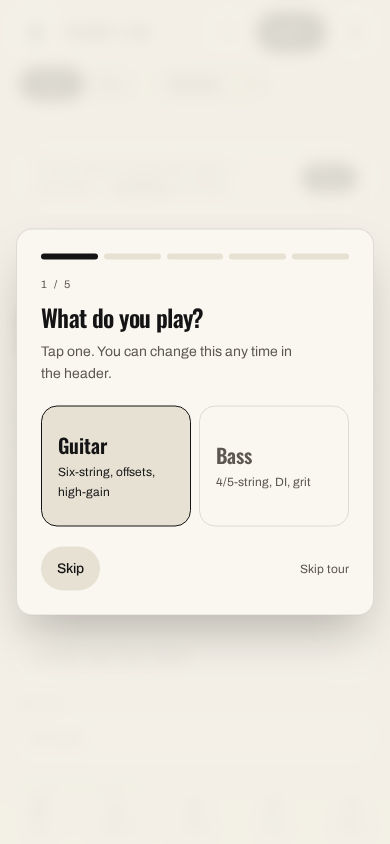
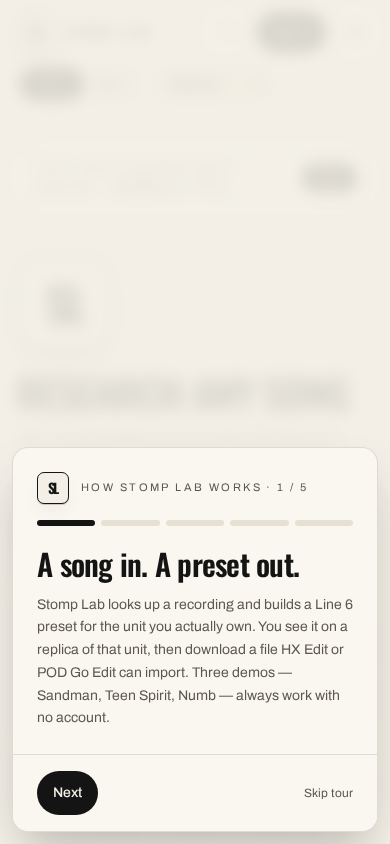
Finish the launch Lab: promo hero, cream SL sticker, visitor counts.
The Lab now opens on the promo layout — giant cream SL, Research any song,
$75/year, 50 builds, and the form right there. The sticker has an ink edge so
it reads on cream, and it is the icon on every platform.

diff --git a/src/routes/index.tsx b/src/routes/index.tsx
@@ -6,6 +6,7 @@ import { PlaybackSelect } from "@/components/layout/playback-select";
 import { RigDisclaimer } from "@/components/layout/disclaimer";
 import { FeedbackCard } from "@/components/layout/feedback-card";
 import { GeminiHint } from "@/components/layout/gemini-hint";
+import { Mark } from "@/components/layout/mark";
 import { ResearchProgress } from "@/components/layout/research-progress";
 import { SongTypeahead } from "@/components/layout/song-typeahead";
 import { UpgradeBanner } from "@/components/layout/upgrade-banner";
@@ -19,7 +20,12 @@ import { isDemoId, withStompModel } from "@/lib/preset-utils";
 import { matchFeatured, researchSongFn } from "@/lib/research";
 import { usePlan } from "@/lib/use-plan";
 import { useAppStore } from "@/store/app-store";
-import { FREE_BUILDS } from "@/lib/plan";
+import {
+  FREE_BUILDS,
+  PAID_MONTHLY_BUILDS,
+  PRICE_YEARLY_USD,
+  formatUsd,
+} from "@/lib/plan";
 
 export const Route = createFileRoute("/")({
   validateSearch: (s: Record<string, unknown>): { q?: string } => ({
@@ -151,24 +157,48 @@ function Home() {
 
   const used = plan.signedIn && !plan.paid ? Math.min(FREE_BUILDS, plan.freeUsed) : 0;
 
+  function openFirstDemo() {
+    const first = demos[0];
+    if (first) openFeatured(first.id);
+  }
+
   return (
-    <div className="space-y-16 md:space-y-24">
+    <div className="space-y-12 md:space-y-20">
       <UpgradeBanner plan={plan} pending={planPending} />
 
-      <section className="mx-auto max-w-3xl space-y-8" data-tutorial="lab">
-        <div className="space-y-5">
+      <section className="mx-auto max-w-5xl space-y-8" data-tutorial="lab">
+        <div className="flex flex-col items-start gap-6 md:flex-row md:items-center md:gap-10">
+          <Mark size="hero" />
+          <div className="min-w-0 space-y-4">
+            <h1 className="font-display text-[clamp(2.6rem,9vw,5.5rem)] font-semibold uppercase leading-[0.82] tracking-tight">
+              Research any song
+            </h1>
+            <p className="max-w-md text-base leading-relaxed text-muted-foreground md:text-lg">
+              Get a Line 6 preset you can copy onto the unit — path, knobs, snapshots, and a file
+              HX Edit or POD Go Edit will import.
+            </p>
+            <div className="flex flex-wrap items-end gap-x-6 gap-y-2">
+              <p className="font-display text-2xl font-semibold leading-none md:text-3xl">
+                {formatUsd(PRICE_YEARLY_USD)}{" "}
+                <span className="text-sm font-normal text-muted-foreground">/ year</span>
+              </p>
+              <p className="font-display text-2xl font-semibold leading-none md:text-3xl">
+                {PAID_MONTHLY_BUILDS}{" "}
+                <span className="text-sm font-normal text-muted-foreground">
+                  custom builds a month
+                </span>
+              </p>
+              <p className="pb-0.5 text-sm text-muted-foreground">HX Stomp · XL · Helix · POD Go</p>
+            </div>
+          </div>
+        </div>
+
+        <div className="space-y-3">
           <p className="text-[11px] font-medium uppercase tracking-[0.32em] text-muted-foreground">
-            Line 6 laboratory
-          </p>
-          <h1 className="font-display text-[clamp(3.25rem,14vw,7.5rem)] font-semibold uppercase leading-[0.82] tracking-tight">
-            Stomp Lab
-          </h1>
-          <p className="max-w-md text-lg leading-relaxed text-muted-foreground">
-            Type a song. Get a preset that sounds like the record — path, knobs, snapshots, and a file
-            HX Edit or POD Go Edit will import.
+            Your unit: {DEVICE_MAP[stompModel]?.name ?? "HX Stomp"}
           </p>
           <p className="text-sm text-muted-foreground">
-            Three demos always work. No account. Your unit: {DEVICE_MAP[stompModel]?.name ?? "HX Stomp"}.
+            Three demos always work. No account. Type a song, then build the preset.
           </p>
           <RigDisclaimer />
         </div>
@@ -202,7 +232,12 @@ function Home() {
           </div>
         ) : null}
 
-        <form onSubmit={(e) => void onResearch(e)} className="space-y-4" data-tutorial="lab-form">
+        <form
+          id="lab-form"
+          onSubmit={(e) => void onResearch(e)}
+          className="space-y-4"
+          data-tutorial="lab-form"
+        >
           <SongTypeahead
             song={song}
             artist={artist}
@@ -216,10 +251,15 @@ function Home() {
             }}
           />
           <PlaybackSelect value={playbackTarget} onChange={setPlaybackTarget} />
-          <Button type="submit" size="lg" disabled={busy || planPending} className="w-full sm:w-auto sm:px-8">
-            {busy ? <Loader2 className="size-4 animate-spin" /> : null}
-            {busy ? "Researching" : "Build this preset"}
-          </Button>
+          <div className="flex flex-wrap gap-3">
+            <Button type="submit" size="lg" disabled={busy || planPending} className="w-full sm:w-auto sm:px-8">
+              {busy ? <Loader2 className="size-4 animate-spin" /> : null}
+              {busy ? "Researching" : "Build this preset"}
+            </Button>
+            <Button type="button" size="lg" variant="outline" onClick={openFirstDemo} className="w-full sm:w-auto">
+              See a demo
+            </Button>
+          </div>
           {busy ? <ResearchProgress pct={progress} /> : null}
           <p className="text-xs text-muted-foreground">
             Using {instrument} · {DEVICE_MAP[stompModel]?.name ?? "HX Stomp"}. Change both in the header.
@@ -233,7 +273,7 @@ function Home() {
         </form>
       </section>
 
-      <section className="space-y-6">
+      <section className="space-y-6" id="demos">
         <div className="flex items-end justify-between gap-4">
           <div className="space-y-1">
             <p className="text-[11px] uppercase tracking-[0.22em] text-muted-foreground">Always free</p>

diff --git a/src/routes/upgrade.tsx b/src/routes/upgrade.tsx
@@ -3,7 +3,7 @@ import { Check, Loader2 } from "lucide-react";
 import { useEffect, useState } from "react";
 import { Button } from "@/components/ui/button";
 import { LegalFooter } from "@/components/layout/legal-footer";
-import { BrandLockup } from "@/components/layout/mark";
+import { Mark } from "@/components/layout/mark";
 import { RigDisclaimer } from "@/components/layout/disclaimer";
 import { useCurrentUserState } from "@/lib/auth/use-current-user";
 import { confirmCheckout, startCheckout } from "@/lib/billing";
@@ -168,18 +168,24 @@ function UpgradePage() {
   return (
     <main className="min-h-dvh bg-background px-4 py-10 text-foreground">
       <div className="mx-auto w-full max-w-3xl space-y-8">
-        <div className="space-y-3">
-          <Link to="/" className="inline-flex items-center text-muted-foreground">
-            <BrandLockup />
-          </Link>
-          <h1 className="font-display text-6xl font-semibold uppercase leading-[0.86] tracking-tight md:text-7xl">
-            Subscribe
-          </h1>
-          <p className="max-w-xl text-lg leading-relaxed text-muted-foreground">
-            Type any song after the three free builds are gone. {FREE_BUILDS} custom songs after sign-in.
-            Featured demos stay free. Monthly or yearly — same {PAID_MONTHLY_BUILDS} builds a month either way.
-          </p>
-          <RigDisclaimer />
+        <div className="flex flex-col items-start gap-6 sm:flex-row sm:items-center sm:gap-8">
+          <Mark size="xl" />
+          <div className="space-y-3">
+            <Link to="/" className="inline-flex font-display text-sm font-semibold uppercase tracking-[0.2em] text-muted-foreground">
+              Stomp Lab
+            </Link>
+            <p className="text-[11px] font-medium uppercase tracking-[0.28em] text-muted-foreground">
+              Research any song
+            </p>
+            <h1 className="font-display text-6xl font-semibold uppercase leading-[0.86] tracking-tight md:text-7xl">
+              Subscribe
+            </h1>
+            <p className="max-w-xl text-lg leading-relaxed text-muted-foreground">
+              Type any song after the three free builds are gone. {FREE_BUILDS} custom songs after sign-in.
+              Featured demos stay free. Monthly or yearly — same {PAID_MONTHLY_BUILDS} builds a month either way.
+            </p>
+            <RigDisclaimer />
+          </div>
         </div>
 
         <div className="grid gap-4 md:grid-cols-2">

diff --git a/src/routes/login.tsx b/src/routes/login.tsx
@@ -3,7 +3,7 @@ import { useEffect, useState } from "react";
 import { Button } from "@/components/ui/button";
 import { Input } from "@/components/ui/input";
 import { Label } from "@/components/ui/label";
-import { BrandLockup } from "@/components/layout/mark";
+import { Mark } from "@/components/layout/mark";
 import { authClient, authEnabled } from "@/lib/auth/client";
 import { useCurrentUserState } from "@/lib/auth/use-current-user";
 import { parseCheckoutId, parseNext } from "@/lib/next-path";
@@ -169,18 +169,21 @@ function LoginPage() {
   return (
     <main className="grid min-h-dvh place-items-center bg-background px-4 py-10 text-foreground">
       <div className="w-full max-w-sm space-y-6">
-        <div className="space-y-2">
-          <a href="/" className="inline-flex items-center text-muted-foreground">
-            <BrandLockup />
+        <div className="space-y-4">
+          <a href="/" className="inline-flex items-center gap-3" aria-label="Stomp Lab">
+            <Mark size="xl" />
+            <span className="font-display text-base font-semibold uppercase tracking-[0.2em]">Stomp Lab</span>
           </a>
-          <h1 className="font-display text-5xl font-semibold uppercase leading-[0.88] tracking-tight">
-            {mode === "in" ? "Sign in" : "Create account"}
-          </h1>
-          <p className="text-sm leading-relaxed text-muted-foreground">
-            Email and a password. That's it — no Google, no X. Unlock and admin stick to this exact
-            email. Always sign in with the same address — creating a second account starts over.
-            Use stomplab.app, not www.
-          </p>
+          <div className="space-y-2">
+            <h1 className="font-display text-5xl font-semibold uppercase leading-[0.88] tracking-tight">
+              {mode === "in" ? "Sign in" : "Create account"}
+            </h1>
+            <p className="text-sm leading-relaxed text-muted-foreground">
+              Email and a password. That's it — no Google, no X. Unlock and admin stick to this exact
+              email. Always sign in with the same address — creating a second account starts over.
+              Use stomplab.app, not www.
+            </p>
+          </div>
         </div>
 
         {!authEnabled ? (

diff --git a/src/components/layout/mark.tsx b/src/components/layout/mark.tsx
@@ -1,14 +1,27 @@
 import { cn } from "@/lib/utils";
 
-export function Mark({ className, size = "md" }: { className?: string; size?: "sm" | "md" | "lg" }) {
+const SIZE = {
+  sm: "size-8 text-sm",
+  md: "size-10 text-lg",
+  lg: "size-12 text-xl",
+  xl: "size-24 text-5xl sm:size-28 sm:text-6xl",
+  hero: "size-24 text-5xl sm:size-32 sm:text-6xl md:size-44 md:text-7xl",
+} as const;
+
+/** Cream SL sticker — the same mark as the physical sticker and the app icon. */
+export function Mark({
+  className,
+  size = "md",
+}: {
+  className?: string;
+  size?: keyof typeof SIZE;
+}) {
   return (
     <span
       aria-hidden
       className={cn(
-        "grid shrink-0 place-items-center rounded-md border border-border bg-mark font-display font-bold uppercase tracking-[-0.06em] text-mark-foreground",
-        size === "sm" && "size-8 text-sm",
-        size === "md" && "size-10 text-lg",
-        size === "lg" && "size-12 text-xl",
+        "sl-sticker grid shrink-0 place-items-center font-display font-bold uppercase text-mark-foreground",
+        SIZE[size],
         className,
       )}
     >

diff --git a/src/styles.css b/src/styles.css
@@ -32,6 +32,9 @@
   --radius-xl: 24px;
 
   --shadow-border: 0 0 0 1px color-mix(in oklab, #141414 8%, transparent);
+  --shadow-sticker:
+    0 1px 0 color-mix(in oklab, #141414 18%, transparent),
+    0 10px 24px -12px color-mix(in oklab, #141414 48%, transparent);
 
   --ease-out: cubic-bezier(0.23, 1, 0.32, 1);
   --motion-quick: 150ms;
@@ -92,6 +95,17 @@ html.dark {
   a {
     color: inherit;
   }
+}
+
+/* Vinyl SL sticker — cream field, ink letters, reads on cream and on dark. */
+.sl-sticker {
+  background: var(--color-mark);
+  color: var(--color-mark-foreground);
+  border: 1.5px solid var(--color-mark-foreground);
+  border-radius: 22%;
+  box-shadow: var(--shadow-sticker);
+  letter-spacing: -0.08em;
+  line-height: 1;
 }
 
 .hx-chassis {

diff --git a/src/routes/admin.tsx b/src/routes/admin.tsx
@@ -170,7 +170,12 @@ function AdminPage() {
         <Stat
           label="Visitors (7d)"
           value={String(dash?.visits?.d7 ?? "—")}
-          hint={`${dash?.visits?.d30 ?? 0} in the last 30 days · ${dash?.visits?.unique_all ?? 0} all-time`}
+          hint={`${dash?.visits?.d30 ?? 0} in the last 30 days`}
+        />
+        <Stat
+          label="Visitors (all-time)"
+          value={String(dash?.visits?.unique_all ?? "—")}
+          hint={`${dash?.visits?.hits ?? 0} total pings · one per browser per day`}
         />
         <Stat label="Signed up" value={String(dash?.userCount ?? "—")} hint="Every account except yours" />
         <Stat

diff --git a/src/components/layout/onboarding.tsx b/src/components/layout/onboarding.tsx
@@ -52,7 +52,8 @@ export function Onboarding({ onFinished }: { onFinished?: () => void }) {
   useLayoutEffect(() => {
     try {
       if (
-        (window.localStorage.getItem("stomplab.tutorial.v8") ||
+        (window.localStorage.getItem("stomplab.tutorial.v9") ||
+          window.localStorage.getItem("stomplab.tutorial.v8") ||
           window.localStorage.getItem("stomplab.tutorial.v7") ||
           window.localStorage.getItem("stomplab.tutorial.v6")) &&
         !window.localStorage.getItem(ONBOARD_KEY)

diff --git a/src/components/layout/tutorial.tsx b/src/components/layout/tutorial.tsx
@@ -14,7 +14,7 @@ import { cn } from "@/lib/utils";
 import { ONBOARD_KEY, persistInstrumentUnit } from "./onboarding";
 import { Mark } from "./mark";
 
-export const TUTORIAL_KEY = "stomplab.tutorial.v8";
+export const TUTORIAL_KEY = "stomplab.tutorial.v9";
 export const TUTORIAL_EVENT = "stomplab:tutorial";
 
 type StepId = "welcome" | "rig" | "song" | "replica" | "import";
